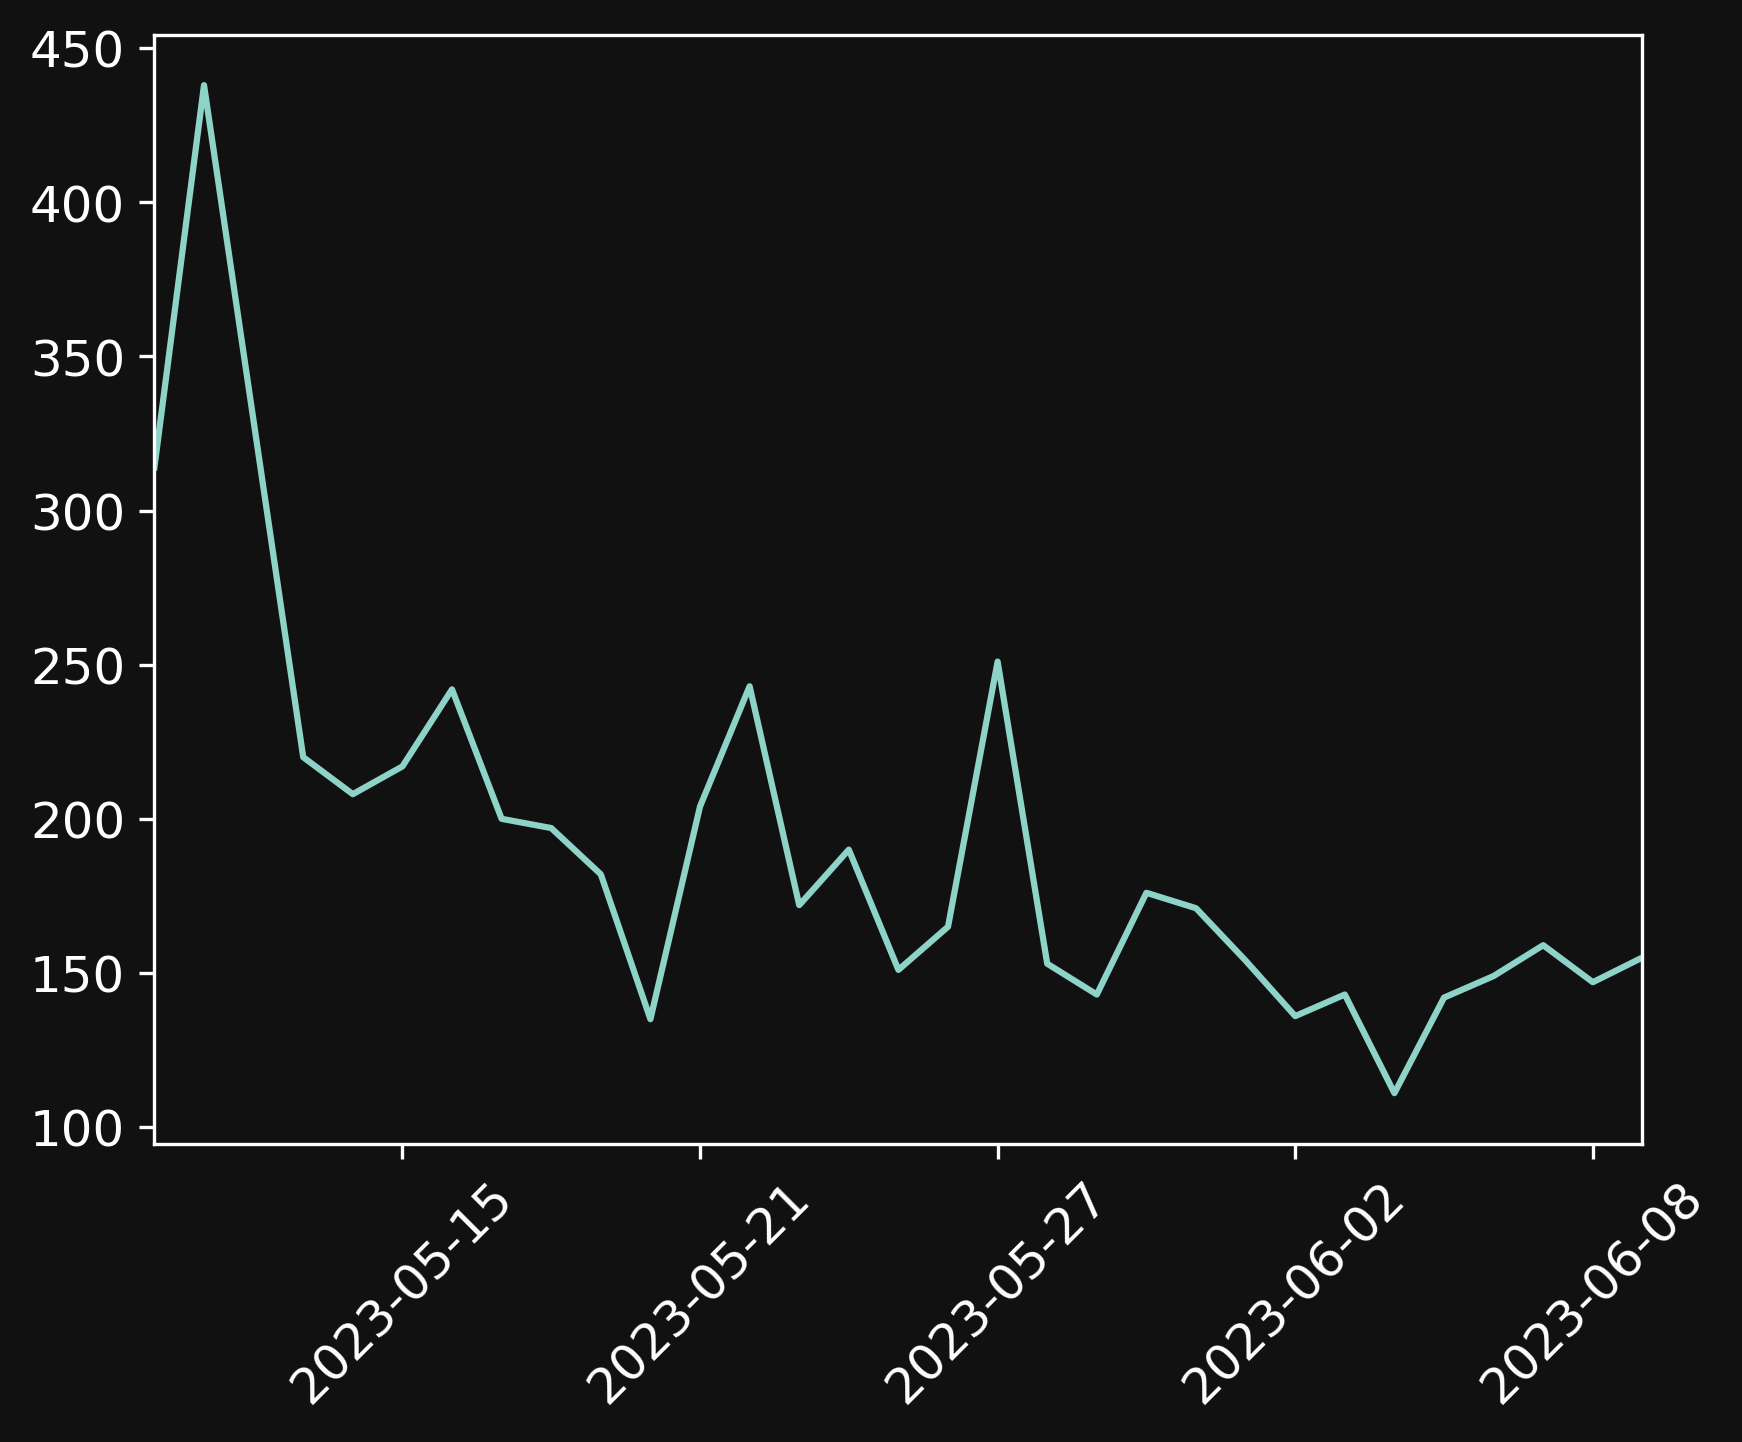
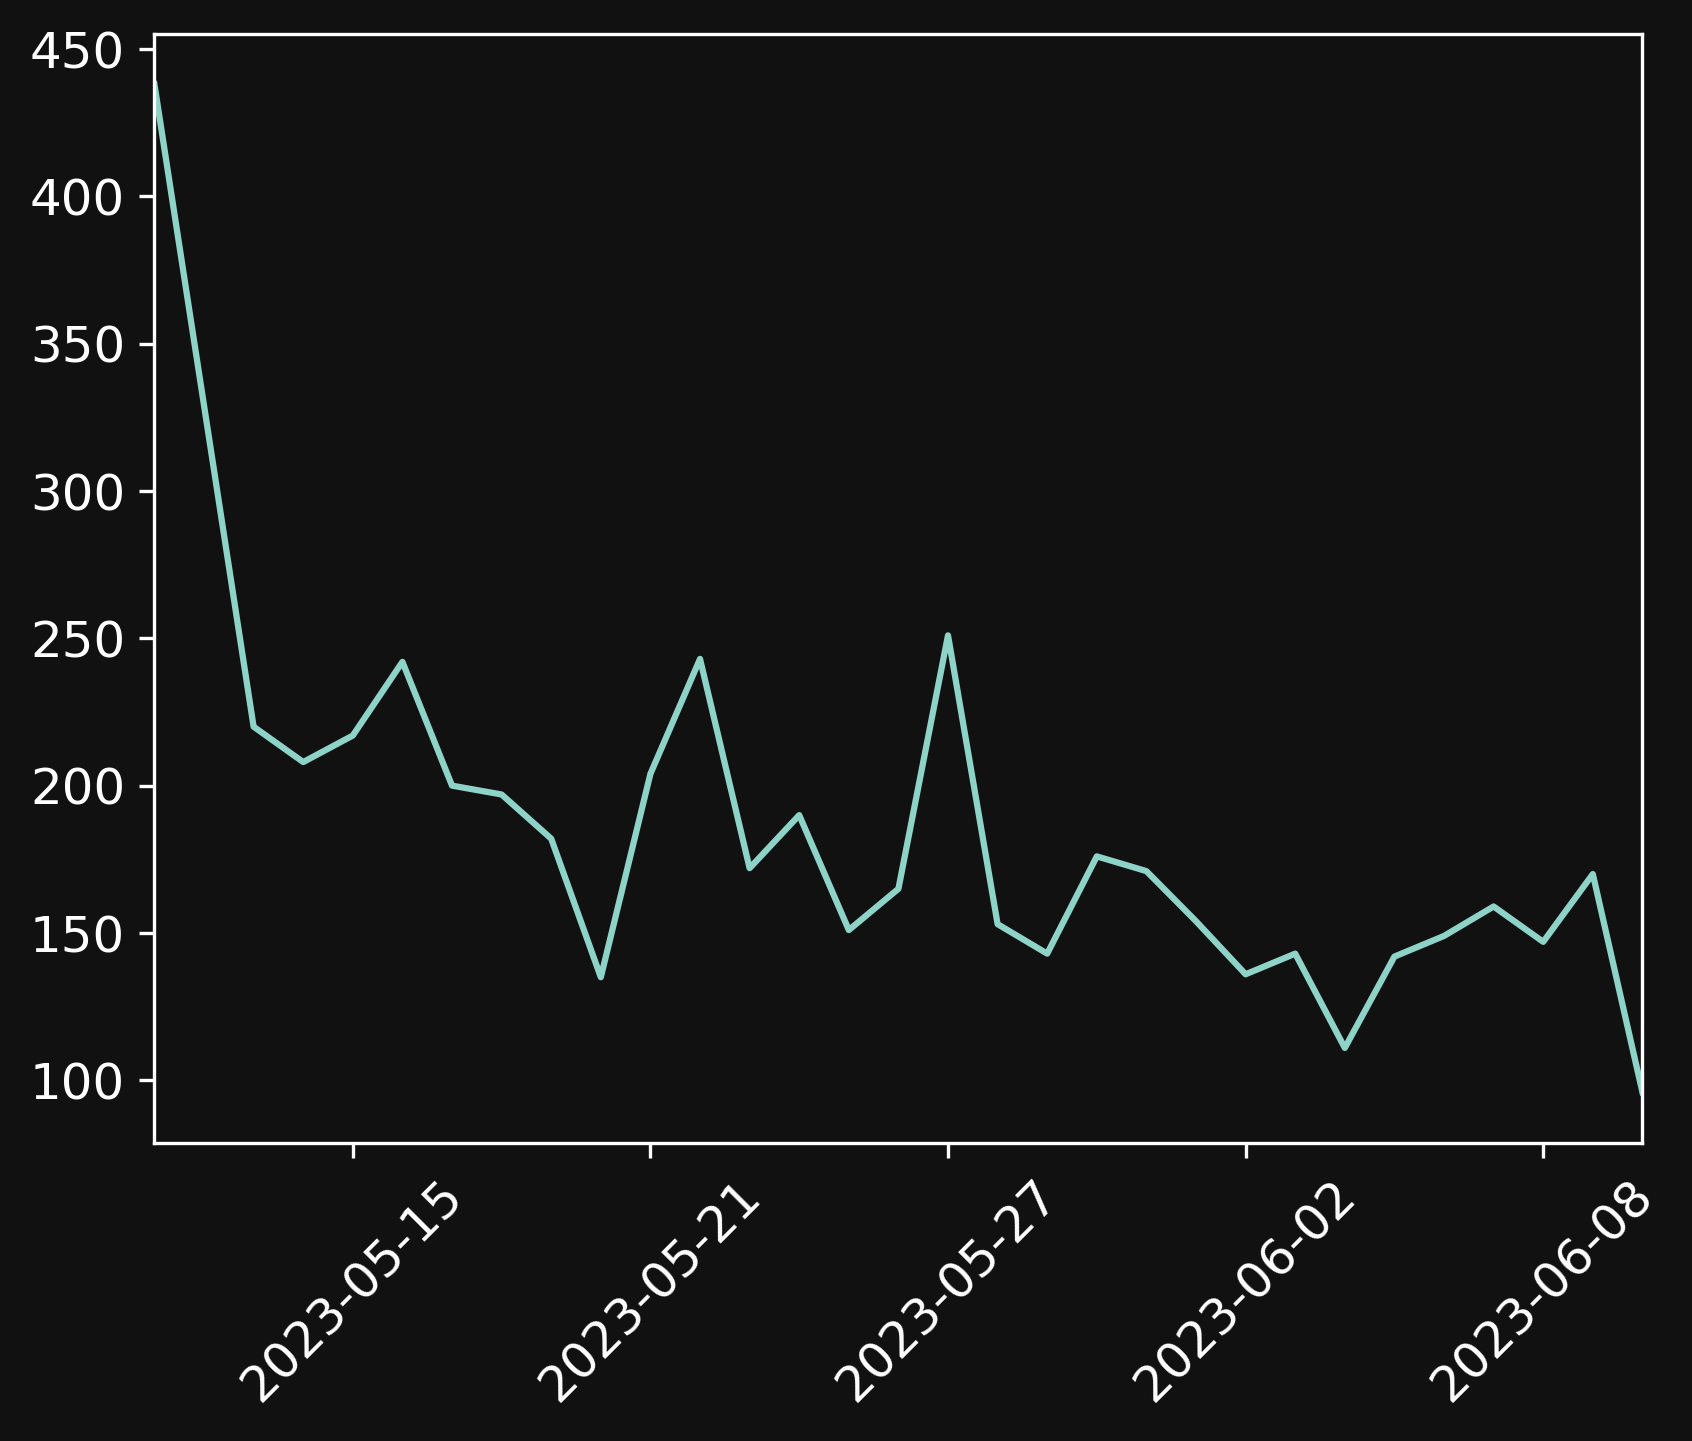
deploy: 587549dcf10b47773896cc7da1dc64fb25c1e964

diff --git a/stats/index.html b/stats/index.html
@@ -1,7 +1,7 @@
-<!doctype html><html lang=en dir=auto><head><meta charset=utf-8><meta http-equiv=x-ua-compatible content="IE=edge"><meta name=viewport content="width=device-width,initial-scale=1,shrink-to-fit=no"><meta name=robots content="index, follow"><title>Stats | Navendu Pottekkat</title><meta name=keywords content><meta name=description content="Statistics."><meta name=author content="Navendu Pottekkat"><link rel=canonical href=https://navendu.me/stats/><script defer data-domain=navendu.me src=/misc/js/script.js data-api=/misc/api/event></script><script>window.plausible=window.plausible||function(){(window.plausible.q=window.plausible.q||[]).push(arguments)}</script><script></script><link crossorigin=anonymous href=/assets/css/stylesheet.66e3e513d75c2ff303648a5691fa6787b3c8f1dc4b3307618713a4dc494f0696.css integrity="sha256-ZuPlE9dcL/MDZIpWkfpnh7PI8dxLMwdhhxOk3ElPBpY=" rel="preload stylesheet" as=style><script src=https://ajax.googleapis.com/ajax/libs/jquery/3.5.1/jquery.min.js></script><script defer crossorigin=anonymous src=/assets/js/highlight.f413e19d0714851f6474e7ee9632408e58ac146fbdbe62747134bea2fa3415e0.js integrity="sha256-9BPhnQcUhR9kdOfuljJAjlisFG+9vmJ0cTS+ovo0FeA=" onload=hljs.initHighlightingOnLoad()></script><link rel=icon href=https://navendu.me/favicon.ico><link rel=icon type=image/png sizes=16x16 href=https://navendu.me/favicon-16x16.png><link rel=icon type=image/png sizes=32x32 href=https://navendu.me/favicon-32x32.png><link rel=apple-touch-icon href=https://navendu.me/apple-touch-icon.png><link rel=mask-icon href=https://navendu.me/safari-pinned-tab.svg><meta name=theme-color content="#2e2e33"><meta name=msapplication-TileColor content="#2e2e33"><noscript><style>#theme-toggle,.top-link{display:none}</style></noscript><meta property="og:title" content="Stats"><meta property="og:description" content="Statistics."><meta property="og:type" content="article"><meta property="og:url" content="https://navendu.me/stats/"><meta property="og:image" content="https://navendu.me/images/preview.png"><meta property="article:section" content><meta property="article:modified_time" content="2023-04-01T17:09:13+05:30"><meta property="og:site_name" content="Navendu Pottekkat"><meta name=twitter:card content="summary_large_image"><meta name=twitter:image content="https://navendu.me/images/preview.png"><meta name=twitter:title content="Stats"><meta name=twitter:description content="Statistics."><script type=application/ld+json>{"@context":"https://schema.org","@type":"BreadcrumbList","itemListElement":[{"@type":"ListItem","position":1,"name":"Stats","item":"https://navendu.me/stats/"}]}</script><script type=application/ld+json>{"@context":"https://schema.org","@type":"BlogPosting","headline":"Stats","name":"Stats","description":"Statistics.","keywords":[],"articleBody":"This page is a work in progress.\nAll the code and content of this website are publicly available. So should the statistics.\nThis page contains data and charts/insights from the data that I think you, as readers of my blog, would find interesting/relevant.\nAs mentioned in my ethics statement, this blog does not collect personal data or personally identifiable information.\nAll data is from the past month (30 days) and will be updated daily.\n","wordCount":"74","inLanguage":"en","datePublished":"0001-01-01T00:00:00Z","dateModified":"2023-04-01T17:09:13+05:30","author":{"@type":"Person","name":"Navendu Pottekkat"},"mainEntityOfPage":{"@type":"WebPage","@id":"https://navendu.me/stats/"},"publisher":{"@type":"Person","name":"Navendu Pottekkat","logo":{"@type":"ImageObject","url":"https://navendu.me/favicon.ico"}}}</script></head><body class=dark id=top><header class=header><nav class=nav><div class=logo><a href=https://navendu.me/ accesskey=h title="Navendu Pottekkat (Alt + H)">Navendu Pottekkat</a><div class=logo-switches></div></div><ul id=menu><li><a href=https://navendu.me/archives/ title=Archives><span>Archives</span></a></li><li><a href=https://navendu.me/categories/ title=Categories><span>Categories</span></a></li><li><a href=https://navendu.me/categories/daily-dose-of-pottekkat/ title="Daily Logs"><span>Daily Logs</span></a></li><li><a href=https://navendu.me/about/ title=About><span>About</span></a></li><li><a href=https://navendu.me/subscribe/ title=Subscribe><span>Subscribe</span></a></li></ul></nav></header><main class=main><article class=post-single><header class=post-header><h1 class=post-title>Stats</h1></header><div class=post-content><section class=last-run><blockquote><p><i>Last updated at 9:31 PM, 9th June 2023 (+0530)</i></p></blockquote></section><p>This page is a work in progress.</p><p>All the code and content of this website are publicly available. So should the statistics.</p><p>This page contains data and charts/insights from the data that I think you, as readers of my blog, would find interesting/relevant.</p><p>As mentioned in my <a href=/about/#ethics-statement>ethics statement</a>, this blog <a href=https://plausible.io/privacy-focused-web-analytics target=_blank>does not collect</a> personal data or personally identifiable information.</p><p>All data is from the past month (30 days) and will be updated daily.</p><section class=stats><h2 id=visitors-by-country>Visitors by Country<a hidden class=anchor aria-hidden=true href=#visitors-by-country>#</a></h2><p>It's always amazing to see people from around the world reading my blog. Most visitors come from
-India, United States of America, Germany, and United Kingdom.</p><figure class=align-center><img loading=lazy src=/images/stats/visitors-by-country.png#center alt="Chart showing the source of visitors over last one month."><figcaption>Stats from the last 30 days<p>Last updated at 9:31 PM, 9th June 2023 (+0530)</p></figcaption></figure><p>Shoutout to <a href=https://www.linkedin.com/in/christy-m-thomas/>Christy</a>, an actual GIS Engineer, who helped me create the chart above.</p><h2 id=visitors-per-day>Visitors per Day<a hidden class=anchor aria-hidden=true href=#visitors-per-day>#</a></h2><p>438 people visited the
+<!doctype html><html lang=en dir=auto><head><meta charset=utf-8><meta http-equiv=x-ua-compatible content="IE=edge"><meta name=viewport content="width=device-width,initial-scale=1,shrink-to-fit=no"><meta name=robots content="index, follow"><title>Stats | Navendu Pottekkat</title><meta name=keywords content><meta name=description content="Statistics."><meta name=author content="Navendu Pottekkat"><link rel=canonical href=https://navendu.me/stats/><script defer data-domain=navendu.me src=/misc/js/script.js data-api=/misc/api/event></script><script>window.plausible=window.plausible||function(){(window.plausible.q=window.plausible.q||[]).push(arguments)}</script><script></script><link crossorigin=anonymous href=/assets/css/stylesheet.66e3e513d75c2ff303648a5691fa6787b3c8f1dc4b3307618713a4dc494f0696.css integrity="sha256-ZuPlE9dcL/MDZIpWkfpnh7PI8dxLMwdhhxOk3ElPBpY=" rel="preload stylesheet" as=style><script src=https://ajax.googleapis.com/ajax/libs/jquery/3.5.1/jquery.min.js></script><script defer crossorigin=anonymous src=/assets/js/highlight.f413e19d0714851f6474e7ee9632408e58ac146fbdbe62747134bea2fa3415e0.js integrity="sha256-9BPhnQcUhR9kdOfuljJAjlisFG+9vmJ0cTS+ovo0FeA=" onload=hljs.initHighlightingOnLoad()></script><link rel=icon href=https://navendu.me/favicon.ico><link rel=icon type=image/png sizes=16x16 href=https://navendu.me/favicon-16x16.png><link rel=icon type=image/png sizes=32x32 href=https://navendu.me/favicon-32x32.png><link rel=apple-touch-icon href=https://navendu.me/apple-touch-icon.png><link rel=mask-icon href=https://navendu.me/safari-pinned-tab.svg><meta name=theme-color content="#2e2e33"><meta name=msapplication-TileColor content="#2e2e33"><noscript><style>#theme-toggle,.top-link{display:none}</style></noscript><meta property="og:title" content="Stats"><meta property="og:description" content="Statistics."><meta property="og:type" content="article"><meta property="og:url" content="https://navendu.me/stats/"><meta property="og:image" content="https://navendu.me/images/preview.png"><meta property="article:section" content><meta property="article:modified_time" content="2023-04-01T17:09:13+05:30"><meta property="og:site_name" content="Navendu Pottekkat"><meta name=twitter:card content="summary_large_image"><meta name=twitter:image content="https://navendu.me/images/preview.png"><meta name=twitter:title content="Stats"><meta name=twitter:description content="Statistics."><script type=application/ld+json>{"@context":"https://schema.org","@type":"BreadcrumbList","itemListElement":[{"@type":"ListItem","position":1,"name":"Stats","item":"https://navendu.me/stats/"}]}</script><script type=application/ld+json>{"@context":"https://schema.org","@type":"BlogPosting","headline":"Stats","name":"Stats","description":"Statistics.","keywords":[],"articleBody":"This page is a work in progress.\nAll the code and content of this website are publicly available. So should the statistics.\nThis page contains data and charts/insights from the data that I think you, as readers of my blog, would find interesting/relevant.\nAs mentioned in my ethics statement, this blog does not collect personal data or personally identifiable information.\nAll data is from the past month (30 days) and will be updated daily.\n","wordCount":"74","inLanguage":"en","datePublished":"0001-01-01T00:00:00Z","dateModified":"2023-04-01T17:09:13+05:30","author":{"@type":"Person","name":"Navendu Pottekkat"},"mainEntityOfPage":{"@type":"WebPage","@id":"https://navendu.me/stats/"},"publisher":{"@type":"Person","name":"Navendu Pottekkat","logo":{"@type":"ImageObject","url":"https://navendu.me/favicon.ico"}}}</script></head><body class=dark id=top><header class=header><nav class=nav><div class=logo><a href=https://navendu.me/ accesskey=h title="Navendu Pottekkat (Alt + H)">Navendu Pottekkat</a><div class=logo-switches></div></div><ul id=menu><li><a href=https://navendu.me/archives/ title=Archives><span>Archives</span></a></li><li><a href=https://navendu.me/categories/ title=Categories><span>Categories</span></a></li><li><a href=https://navendu.me/categories/daily-dose-of-pottekkat/ title="Daily Logs"><span>Daily Logs</span></a></li><li><a href=https://navendu.me/about/ title=About><span>About</span></a></li><li><a href=https://navendu.me/subscribe/ title=Subscribe><span>Subscribe</span></a></li></ul></nav></header><main class=main><article class=post-single><header class=post-header><h1 class=post-title>Stats</h1></header><div class=post-content><section class=last-run><blockquote><p><i>Last updated at 9:25 PM, 10th June 2023 (+0530)</i></p></blockquote></section><p>This page is a work in progress.</p><p>All the code and content of this website are publicly available. So should the statistics.</p><p>This page contains data and charts/insights from the data that I think you, as readers of my blog, would find interesting/relevant.</p><p>As mentioned in my <a href=/about/#ethics-statement>ethics statement</a>, this blog <a href=https://plausible.io/privacy-focused-web-analytics target=_blank>does not collect</a> personal data or personally identifiable information.</p><p>All data is from the past month (30 days) and will be updated daily.</p><section class=stats><h2 id=visitors-by-country>Visitors by Country<a hidden class=anchor aria-hidden=true href=#visitors-by-country>#</a></h2><p>It's always amazing to see people from around the world reading my blog. Most visitors come from
+India, United States of America, Germany, and United Kingdom.</p><figure class=align-center><img loading=lazy src=/images/stats/visitors-by-country.png#center alt="Chart showing the source of visitors over last one month."><figcaption>Stats from the last 30 days<p>Last updated at 9:25 PM, 10th June 2023 (+0530)</p></figcaption></figure><p>Shoutout to <a href=https://www.linkedin.com/in/christy-m-thomas/>Christy</a>, an actual GIS Engineer, who helped me create the chart above.</p><h2 id=visitors-per-day>Visitors per Day<a hidden class=anchor aria-hidden=true href=#visitors-per-day>#</a></h2><p>438 people visited the
 blog on 11th May 2023. This is the
 highest number of daily visitors in the past month.</p><p>Out of them, 283 were here to
-read <a href=/posts/gateway-and-mesh/>this</a>.</p><figure class=align-center><img loading=lazy src=/images/stats/monthly-visitors.png#center alt="Chart showing visitors over last one month."><figcaption>Stats from the last 30 days<p>Last updated at 9:31 PM, 9th June 2023 (+0530)</p></figcaption></figure><h2 id=visitors-by-source>Visitors by Source<a hidden class=anchor aria-hidden=true href=#visitors-by-source>#</a></h2><p>Most people visited the site from the source: Direct / None.</p><p>There is a lot of traffic from direct links. I should level up my link-tagging game.</p><figure class=align-center><img loading=lazy src=/images/stats/monthly-sources.png#center alt="Chart showing the source of visitors over last one month."><figcaption>Stats from the last 30 days<p>Last updated at 9:31 PM, 9th June 2023 (+0530)</p></figcaption></figure><p>What should I add next here? Send your suggestions to <a href=mailto:navendu@apache.org>navendu@apache.org</a></p></section></div></article></main><footer class=footer><span>This work by <a href=https://navendu.me/about/#about-me>Navendu Pottekkat</a></span>
+read <a href=/posts/gateway-and-mesh/>this</a>.</p><figure class=align-center><img loading=lazy src=/images/stats/monthly-visitors.png#center alt="Chart showing visitors over last one month."><figcaption>Stats from the last 30 days<p>Last updated at 9:25 PM, 10th June 2023 (+0530)</p></figcaption></figure><h2 id=visitors-by-source>Visitors by Source<a hidden class=anchor aria-hidden=true href=#visitors-by-source>#</a></h2><p>Most people visited the site from the source: Direct / None.</p><p>There is a lot of traffic from direct links. I should level up my link-tagging game.</p><figure class=align-center><img loading=lazy src=/images/stats/monthly-sources.png#center alt="Chart showing the source of visitors over last one month."><figcaption>Stats from the last 30 days<p>Last updated at 9:25 PM, 10th June 2023 (+0530)</p></figcaption></figure><p>What should I add next here? Send your suggestions to <a href=mailto:navendu@apache.org>navendu@apache.org</a></p></section></div></article></main><footer class=footer><span>This work by <a href=https://navendu.me/about/#about-me>Navendu Pottekkat</a></span>
 <span>is licensed under <a rel=license href=http://creativecommons.org/licenses/by-sa/4.0 target=_blank>CC BY-SA 4.0</a></span></footer><a href=#top aria-label="go to top" title="Go to Top (Alt + G)"><button class=top-link id=top-link type=button accesskey=g><svg xmlns="http://www.w3.org/2000/svg" viewBox="0 0 12 6" fill="currentcolor"><path d="M12 6H0l6-6z"/></svg></button></a>
 <script>let menu=document.getElementById('menu');menu&&(menu.scrollLeft=localStorage.getItem("menu-scroll-position"),menu.onscroll=function(){localStorage.setItem("menu-scroll-position",menu.scrollLeft)}),document.querySelectorAll('a[href^="#"]').forEach(a=>{a.addEventListener("click",function(b){b.preventDefault();var a=this.getAttribute("href").substr(1);window.matchMedia('(prefers-reduced-motion: reduce)').matches?document.querySelector(`[id='${decodeURIComponent(a)}']`).scrollIntoView():document.querySelector(`[id='${decodeURIComponent(a)}']`).scrollIntoView({behavior:"smooth"}),a==="top"?history.replaceState(null,null," "):history.pushState(null,null,`#${a}`)})})</script><script>var mybutton=document.getElementById("top-link");window.onscroll=function(){document.body.scrollTop>800||document.documentElement.scrollTop>800?(mybutton.style.visibility="visible",mybutton.style.opacity="1"):(mybutton.style.visibility="hidden",mybutton.style.opacity="0")}</script><script>document.querySelectorAll('pre > code').forEach(b=>{const c=b.parentNode.parentNode,a=document.createElement('button');a.classList.add('copy-code'),a.innerHTML='copy';function d(){a.innerHTML='copied!',setTimeout(()=>{a.innerHTML='copy'},2e3)}a.addEventListener('click',e=>{if('clipboard'in navigator){navigator.clipboard.writeText(b.textContent),d();return}const a=document.createRange();a.selectNodeContents(b);const c=window.getSelection();c.removeAllRanges(),c.addRange(a);try{document.execCommand('copy'),d()}catch(a){}c.removeRange(a)}),c.classList.contains("highlight")?c.appendChild(a):c.parentNode.firstChild==c||(b.parentNode.parentNode.parentNode.parentNode.parentNode.nodeName=="TABLE"?b.parentNode.parentNode.parentNode.parentNode.parentNode.appendChild(a):b.parentNode.appendChild(a))})</script><script>for(var els=document.getElementsByClassName("highlight"),i=0,title,code,newNode;i<els.length;i++)title=els[i].title,code=els[i].firstElementChild.firstElementChild,title.length&&(newNode=document.createElement("div"),newNode.textContent=title,newNode.classList.add("highlight-title"),code.parentNode.insertBefore(newNode,code))</script></body></html>
